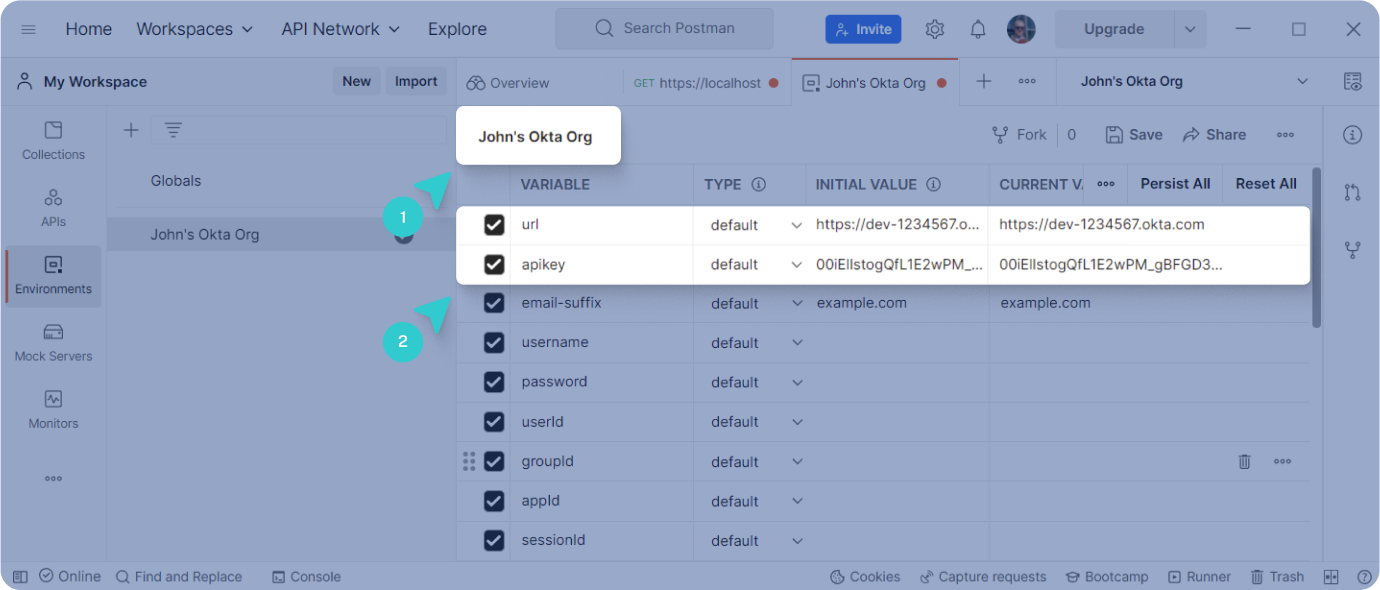
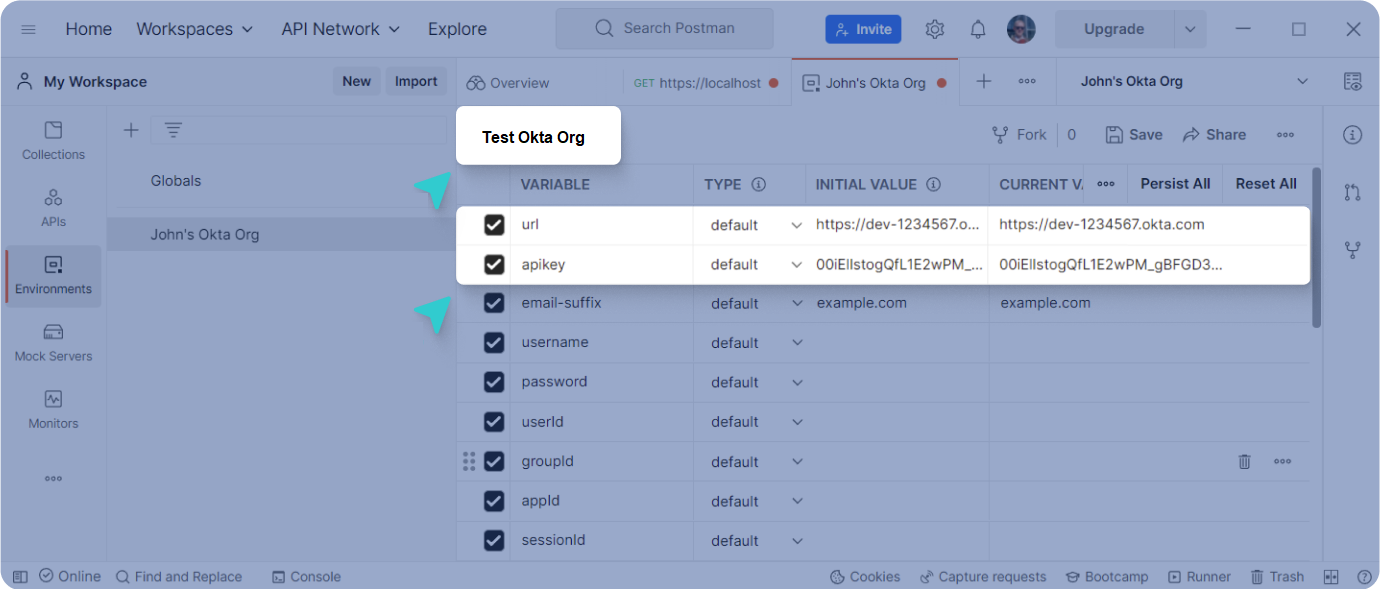
Updates as per Isaac's review

diff --git a/packages/@okta/vuepress-site/code/rest/index.md b/packages/@okta/vuepress-site/code/rest/index.md
@@ -52,7 +52,7 @@ Source image: https://www.figma.com/file/YH5Zhzp66kGCglrXQUag2E/%F0%9F%93%8A-Upd
 </div>
 
 10. In the **Manage Environments** dialog box, do the following:
-    * Click on the environment name, delete the placeholder text, and name your environment, for example: `John's Okta Org`.
+    * Click on the environment name, delete the placeholder text, and name your environment, for example: `Test Okta Org`.
     * For the `url` variable, in the **Initial Value** and **Current Value** columns, replace the placeholder text with your org's full URL, for example: `https://dev-1234567.okta.com`. Remember to remove the `-admin` part of your subdomain.
     * For the `apikey` variable, in the **Initial Value** and **Current Value** columns, enter your API token that you created earlier, for example: `00LzMWxMq_0sdErHy9Jf1sijEGexYZlsdGr9a4QjkS`.
 
@@ -125,7 +125,7 @@ To retain the headers:
 
 1. Click the gear icon from the toolbar in the upper-right corner of the page.
 1. Select **Settings**.
-1. Scroll down to the **Headers** section and enable **Retain headers when clicking on links**.
+1. In the **Headers** section, enable **Retain headers when clicking on links**.
 
 ## Next steps
 
